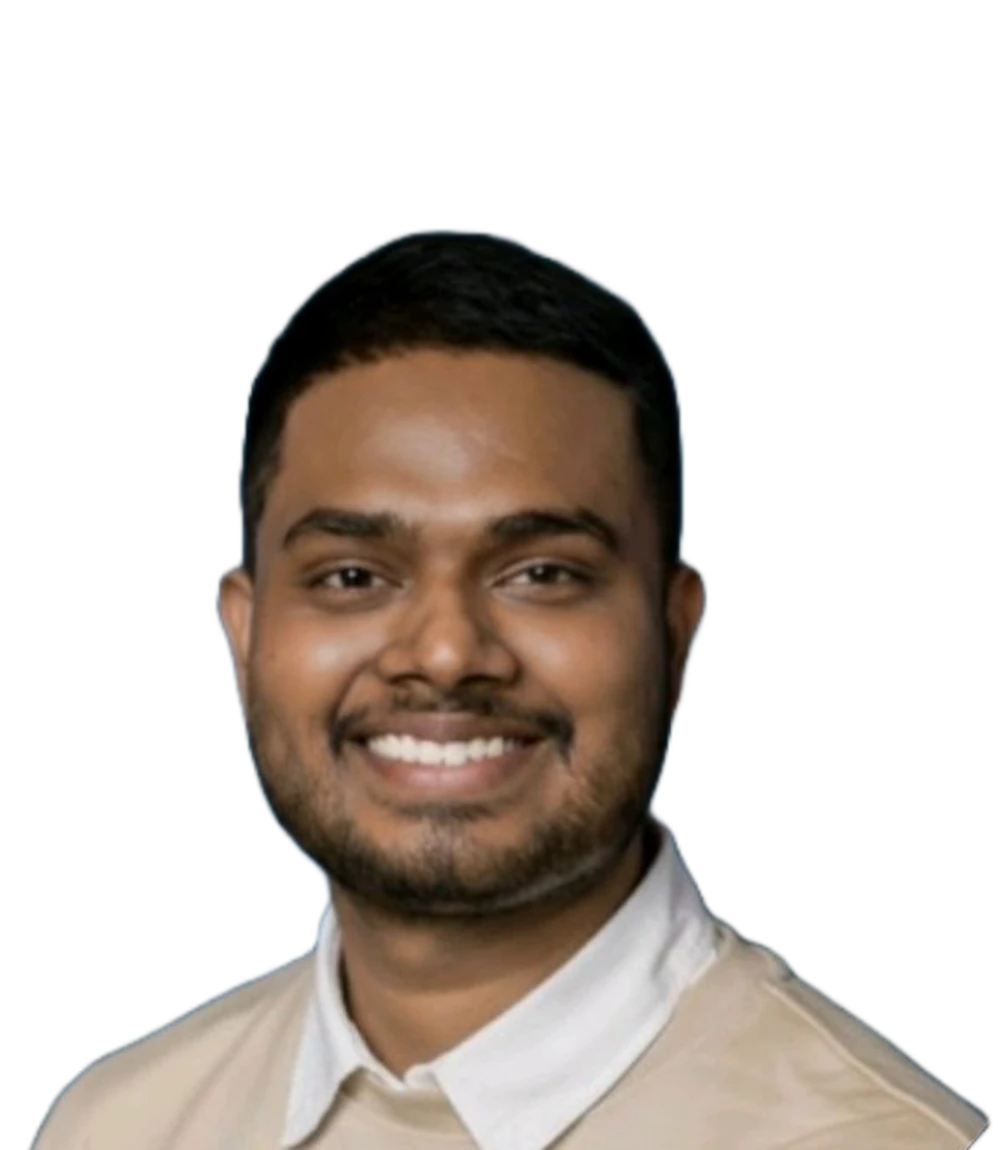
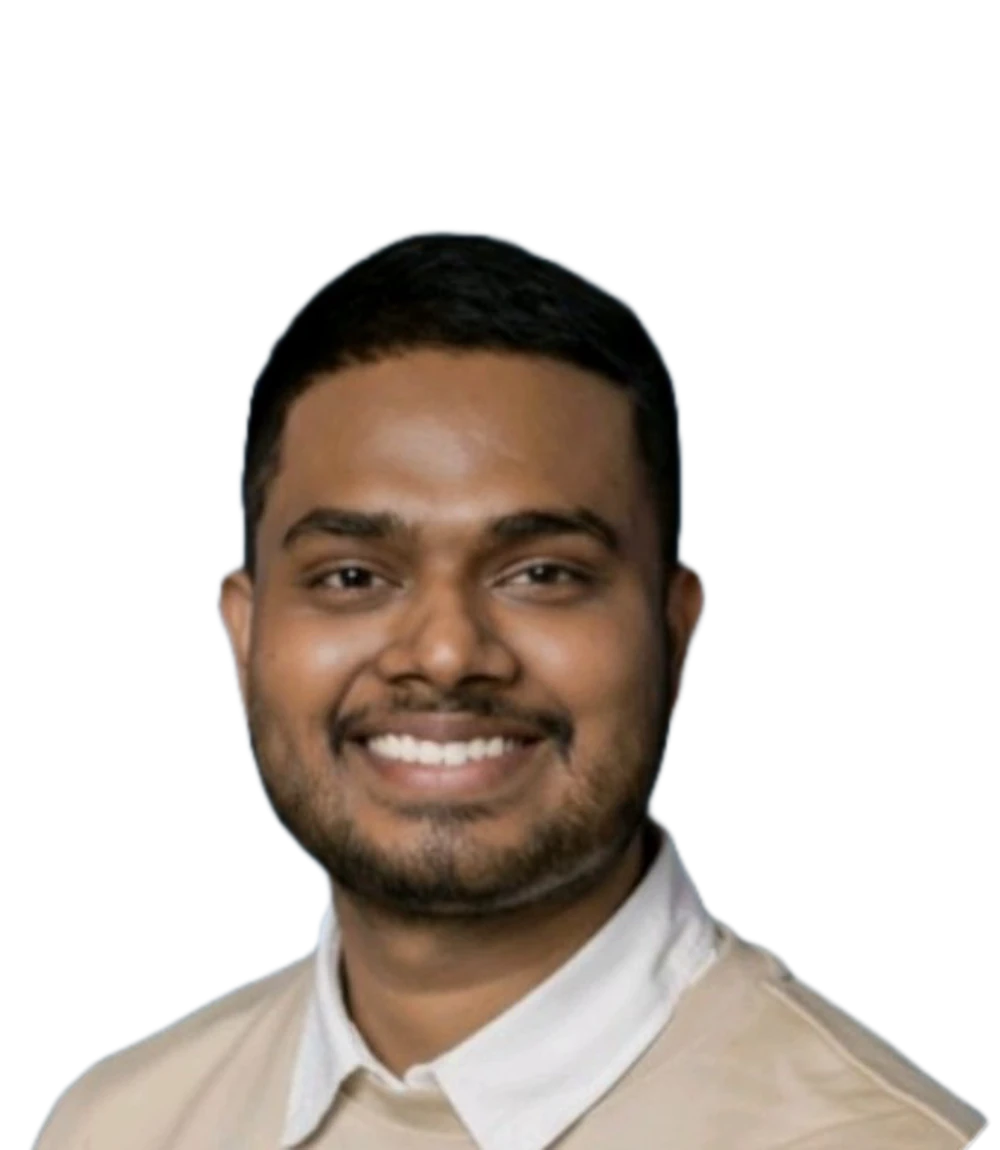
Remove photo frames so the cut-out portrait sits directly on the page; clean cut-out edges
Claude-Session: https://claude.ai/code/session_01Gk1mR4VoENU47RLYLnc64x

diff --git a/styles/hero.css b/styles/hero.css
@@ -56,8 +56,7 @@
 
 .hero-portrait-link {
   position: absolute; left: 50%; transform: translate(-50%); bottom: var(--hero-image-bottom); z-index: 2;
-  width: var(--hero-image-width); aspect-ratio: 20 / 23; border-radius: 9px; overflow: hidden;
-  background: var(--surface-strong); display: block;
+  width: var(--hero-image-width); aspect-ratio: 20 / 23; overflow: hidden; display: block;
 }
 .hero-portrait-link img { width: 100%; height: 100%; object-fit: cover; object-position: bottom; filter: grayscale(); }
 
@@ -82,7 +81,7 @@
 .portrait-journey { position: absolute; inset: 0 0 auto; z-index: 2; pointer-events: none; display: none; }
 .portrait-sticky-stage { position: sticky; top: 0; height: 100vh; }
 .portrait-card { position: absolute; transform-style: preserve-3d; }
-.portrait-face { position: absolute; inset: 0; border-radius: inherit; overflow: hidden; backface-visibility: hidden; background: var(--surface-strong); }
+.portrait-face { position: absolute; inset: 0; border-radius: inherit; overflow: hidden; backface-visibility: hidden; }
 .portrait-face-back { transform: rotateY(180deg); }
 .portrait-face img { width: 100%; height: 100%; object-fit: cover; object-position: bottom; display: block; }
 .portrait-face-front img { filter: grayscale(); }
@@ -124,7 +123,7 @@
 }
 .bio-projects { background: var(--sc-ink); color: var(--sc-canvas); }
 .bio-projects:hover { background: var(--sc-ink-soft); }
-.bio-portrait { margin: 0; aspect-ratio: 20 / 23; border-radius: 16px; overflow: hidden; background: var(--surface-strong); }
+.bio-portrait { margin: 0; aspect-ratio: 20 / 23; overflow: hidden; }
 .bio-portrait img { width: 100%; height: 100%; object-fit: cover; object-position: bottom; }
 
 /* ---------- responsive ---------- */
